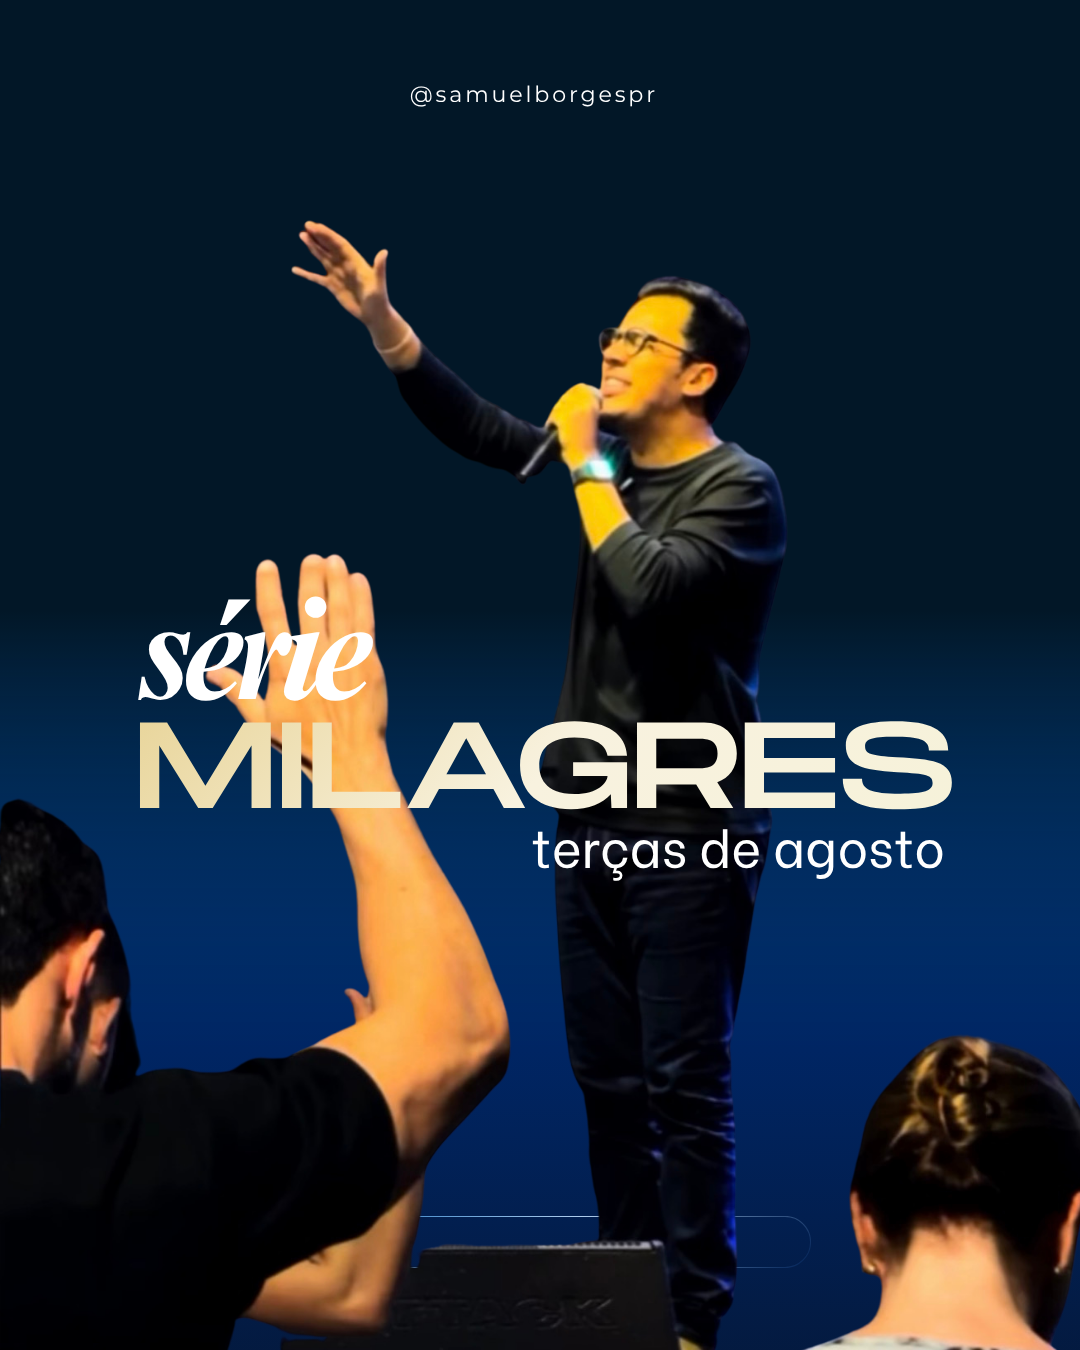
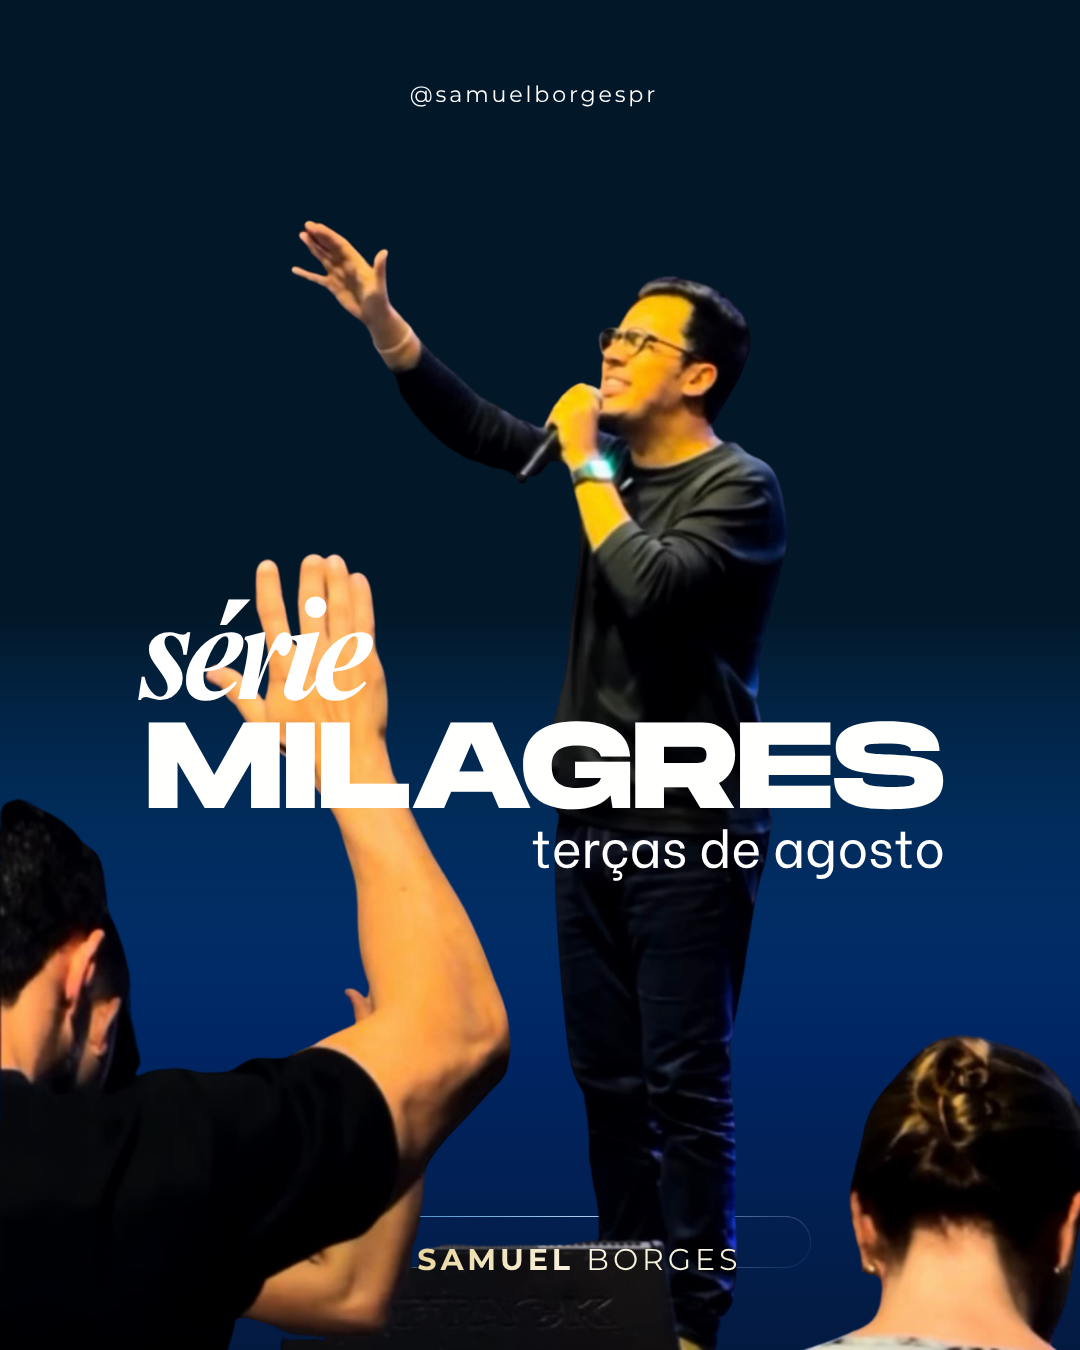
fgbf

Changed region(s): [[0.1222, 0.5289, 0.8861, 0.6222], [0.3972, 0.9022, 0.4583, 0.9644], [0.4889, 0.9022, 0.5194, 0.9644]]

diff --git a/samuelborges/identidade-visual.html b/samuelborges/identidade-visual.html
@@ -144,7 +144,7 @@ function sbToggleTopics(){
 
       <!--
         FOTO DE PERFIL — salvar em: assets/images/instagram/avatar.jpg
-        DESTAQUES — salvar em: assets/images/instagram/destaques/1.png até destaques/5.png (nessa ordem: Comece Aqui, Fé Prática, Família, Perguntas, Hábitos)
+        DESTAQUES — salvar em: assets/images/instagram/destaques/1.png até destaques/4.png (nessa ordem: Comece Aqui, Fé Prática, Família, Perguntas)
         FEED — salvar em: assets/images/instagram/feed/1.png até feed/12.png (1, 2, 3 são as fixadas do ensaio/vídeos já gravados)
       -->
       <div class="sb-inset-nude">
@@ -201,14 +201,6 @@ function sbToggleTopics(){
                 onerror="this.parentElement.classList.add('is-placeholder')">
             </div>
             <span class="sb-ig-highlight-label">Perguntas</span>
-          </div>
-          <div class="sb-ig-highlight">
-            <div class="sb-ig-highlight-circle is-placeholder">
-              <img src="assets/images/instagram/destaques/5.png" alt="Hábitos"
-                onload="this.parentElement.classList.remove('is-placeholder')"
-                onerror="this.parentElement.classList.add('is-placeholder')">
-            </div>
-            <span class="sb-ig-highlight-label">Hábitos</span>
           </div>
         </div>
 
